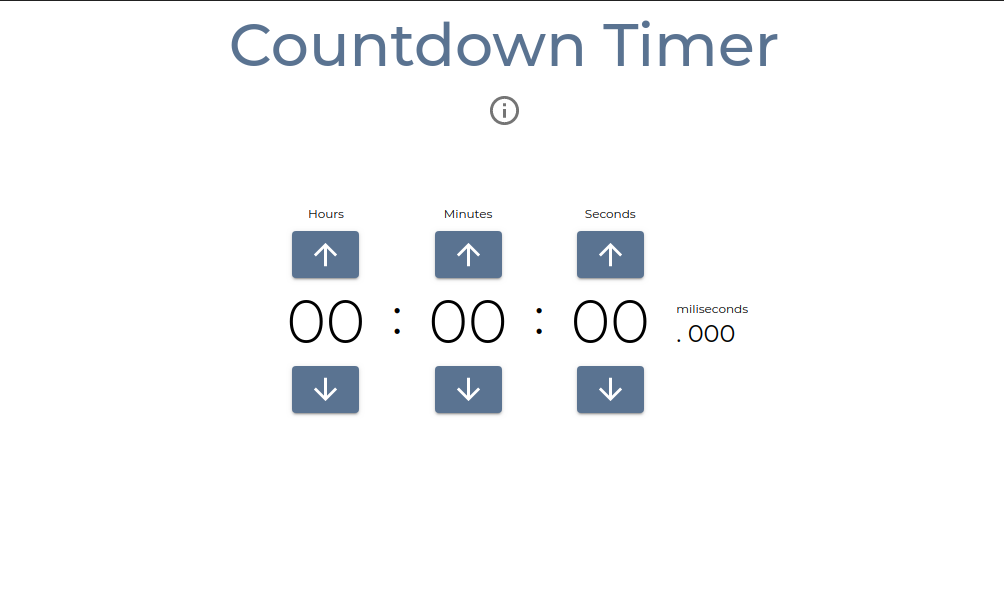
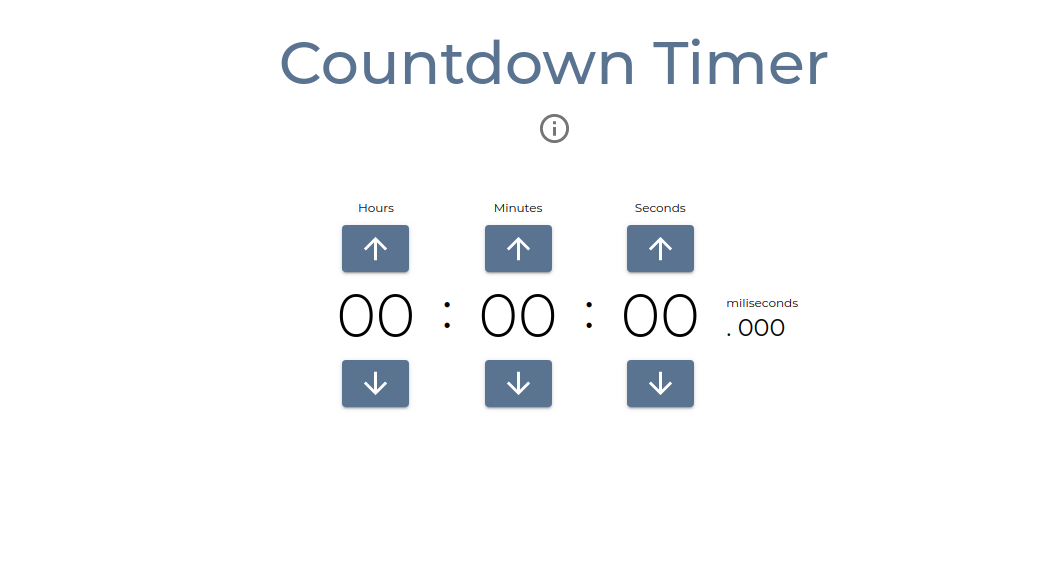
Change image in the readme and padding for title

Changed region(s): [[0.2779, 0.3298, 0.5249, 0.7196], [0.2161, 0.03, 0.8028, 0.2399], [0.5558, 0.3298, 0.7719, 0.7196]]

diff --git a/src/App.js b/src/App.js
@@ -18,6 +18,7 @@ function App() {
       flexDirection="column"
       justifyContent="center"
       alignItems="center"
+      my={4}
     >
       <Typography variant="h2" color="primary" style={{ fontWeight: 500 }}>
         Countdown Timer
@@ -31,9 +32,7 @@ function App() {
           handleClose={toggleOpenInstructions}
         />
       )}
-      <Box my={2}>
-        <CountDown />
-      </Box>
+      <CountDown />
     </Box>
   );
 }

diff --git a/src/containers/CountDown/index.js b/src/containers/CountDown/index.js
@@ -158,7 +158,7 @@ function CountDown() {
         justifyContent="center"
         alignItems="center"
         width={1}
-        my={3}
+        my={2}
       >
         <CountDownColumn
           countDownTime={countDownTime}

diff --git a/README.md b/README.md
@@ -31,7 +31,7 @@ npm start
 ### 4. Open in the browser
 
 After running the command `yarn start` or `npm start`, it will open the server in your default
-browser. If not you can go to your browser and put
+browser. If not, you can go to your browser and put
 
 ```
 localhost:3000
@@ -39,7 +39,7 @@ localhost:3000
 
 in the address bar and it will run.
 
-- If you are not able to run it after this, it means that either 3000 port is occupied with some
+- If you are still not able to run it after the last step, it means that `3000` port is occupied with some
   other process so you will have to go to other port which will be
   ```bash
   localhost:3001
